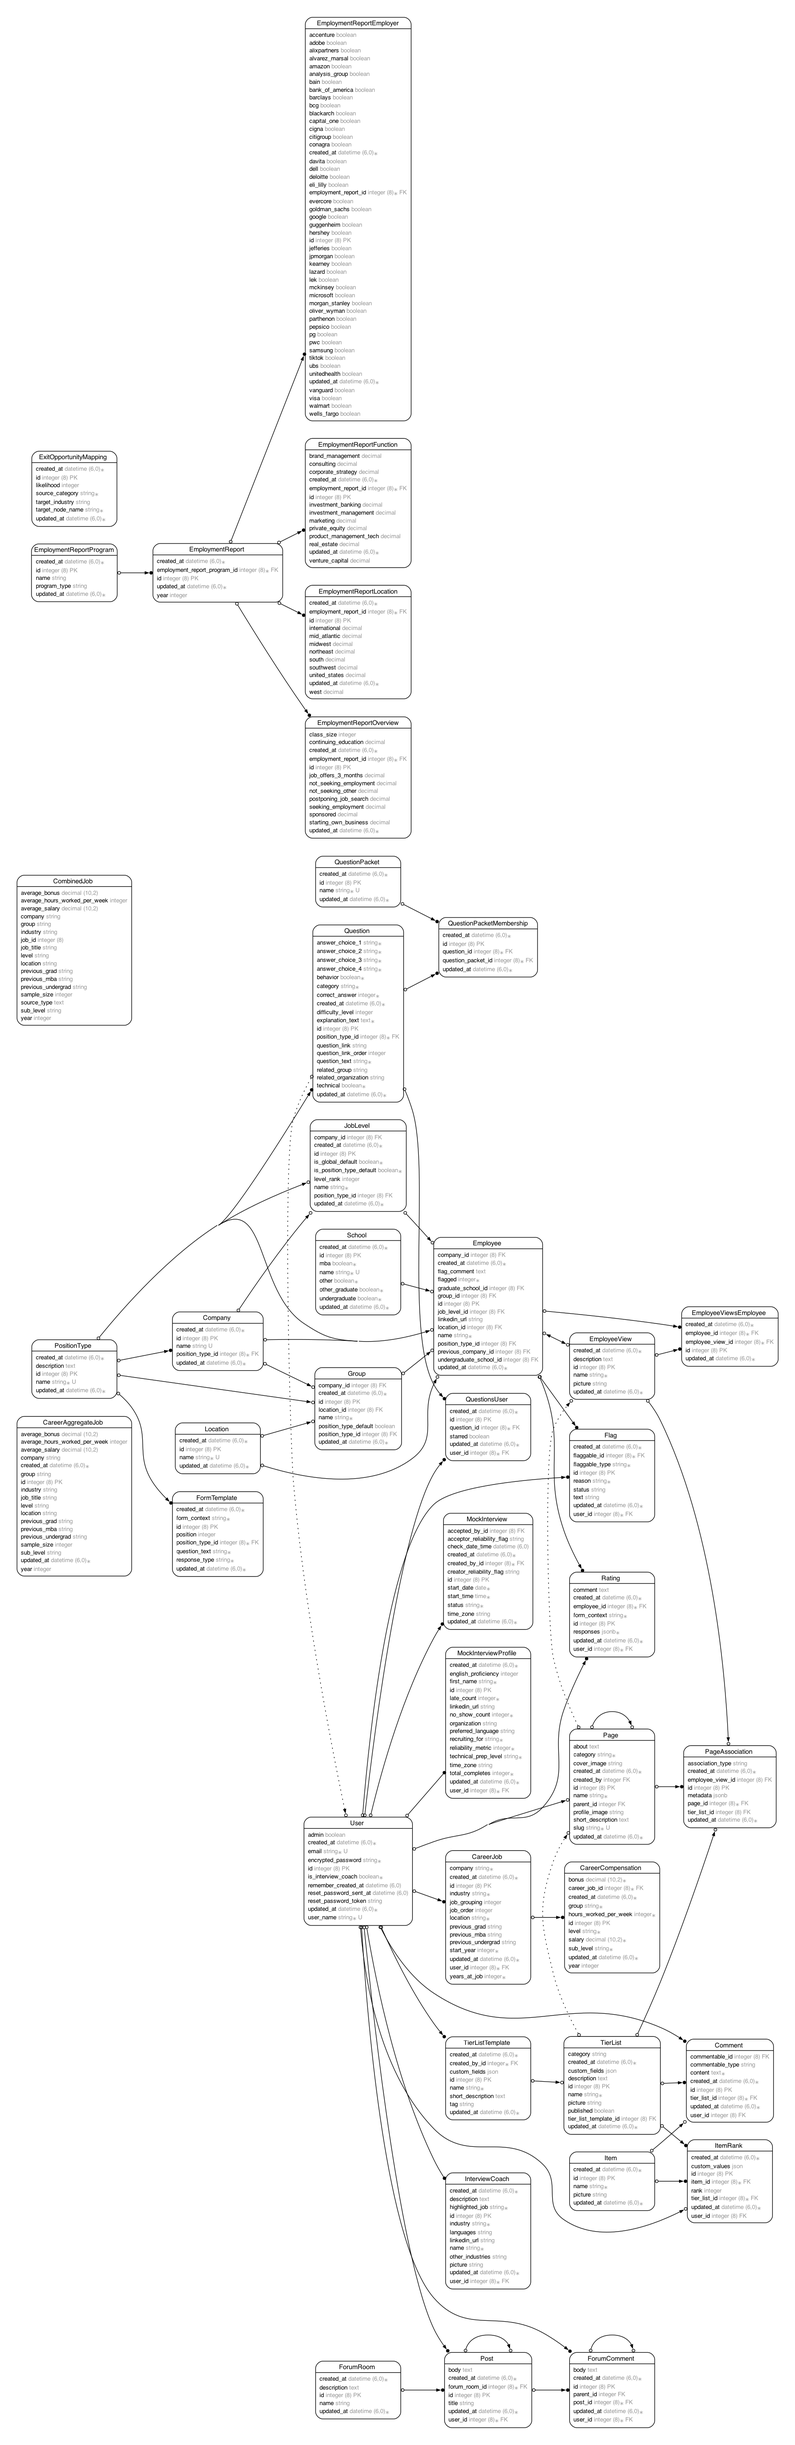
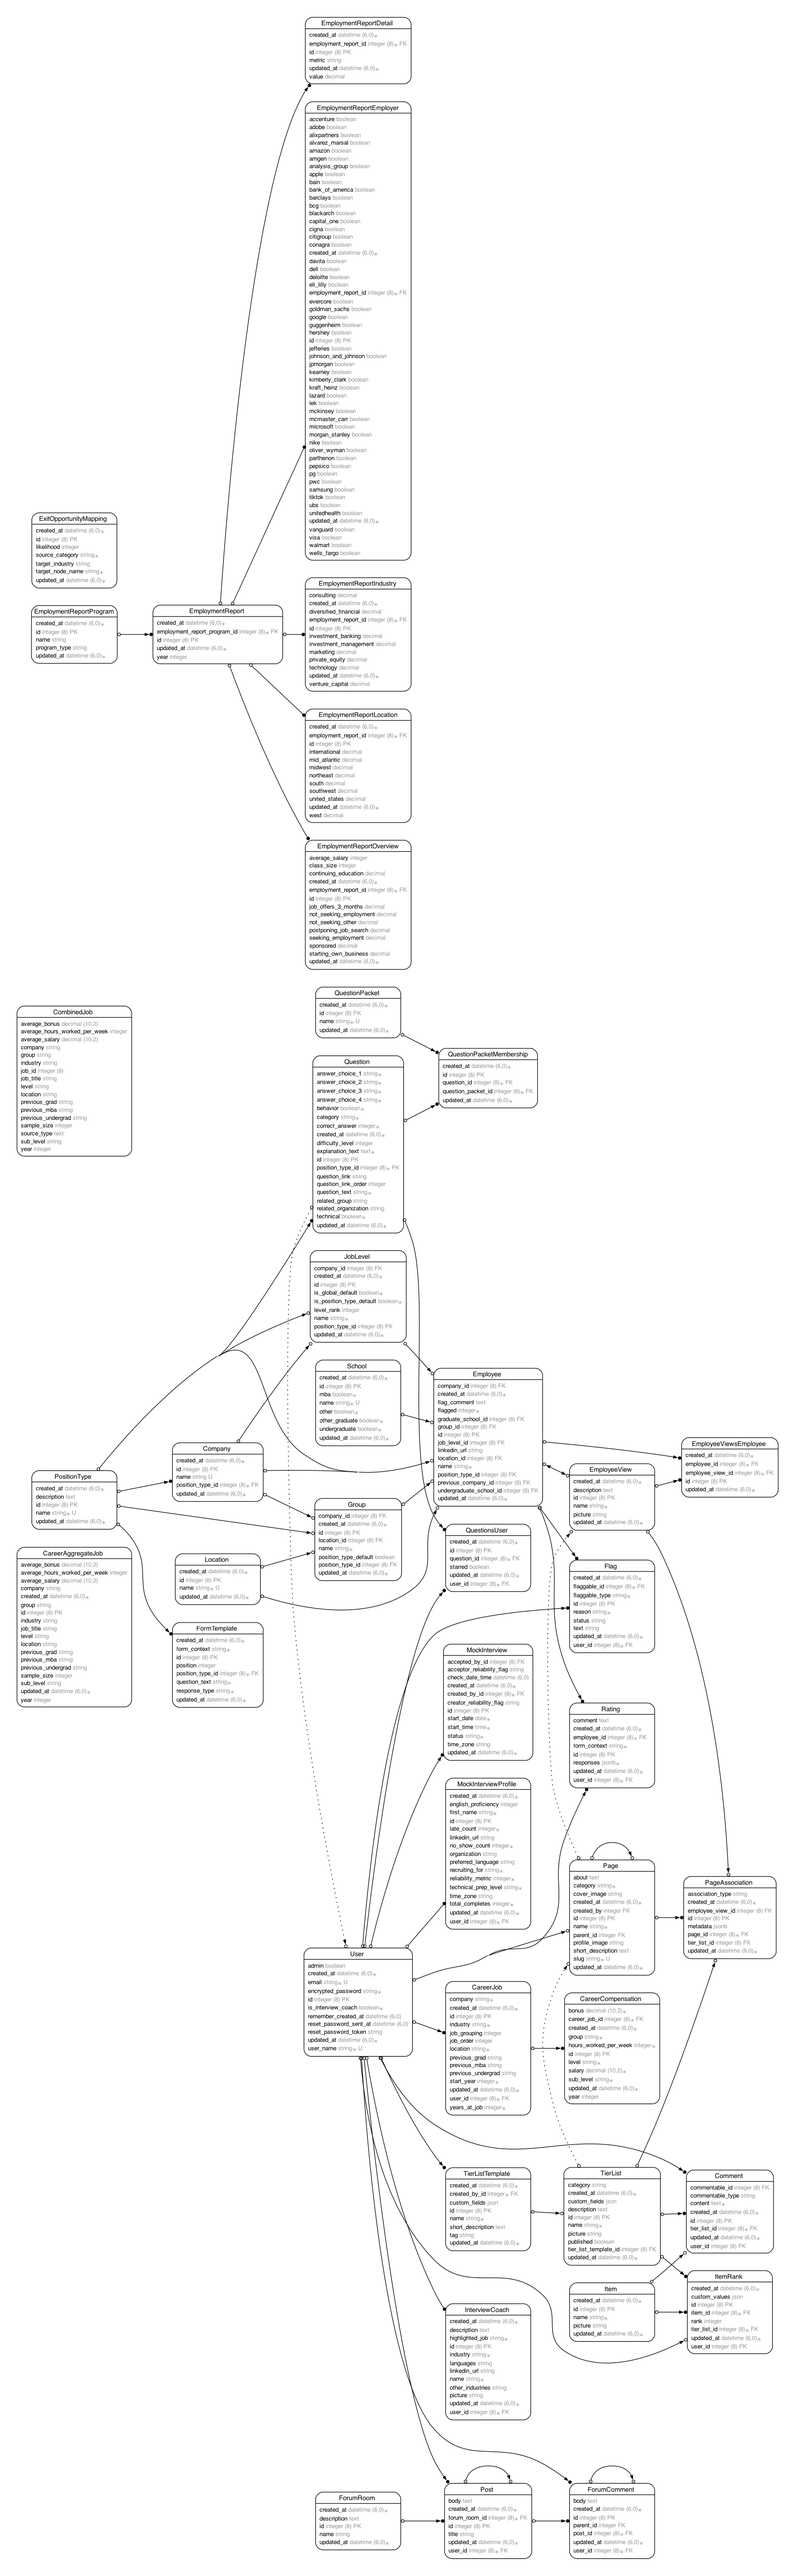
Added migration files

diff --git a/db/schema.rb b/db/schema.rb
@@ -10,7 +10,7 @@
 #
 # It's strongly recommended that you check this file into your version control system.
 
-ActiveRecord::Schema[7.1].define(version: 2025_02_16_023643) do
+ActiveRecord::Schema[7.1].define(version: 2025_02_16_193541) do
   # These are extensions that must be enabled in order to support this database
   enable_extension "plpgsql"
 
@@ -130,6 +130,15 @@ ActiveRecord::Schema[7.1].define(version: 2025_02_16_023643) do
     t.index ["undergraduate_school_id"], name: "index_employees_on_undergraduate_school_id"
   end
 
+  create_table "employment_report_details", force: :cascade do |t|
+    t.bigint "employment_report_id", null: false
+    t.string "metric"
+    t.decimal "value"
+    t.datetime "created_at", null: false
+    t.datetime "updated_at", null: false
+    t.index ["employment_report_id"], name: "index_employment_report_details_on_employment_report_id"
+  end
+
   create_table "employment_report_employers", force: :cascade do |t|
     t.bigint "employment_report_id", null: false
     t.boolean "bcg"
@@ -179,23 +188,28 @@ ActiveRecord::Schema[7.1].define(version: 2025_02_16_023643) do
     t.boolean "hershey"
     t.datetime "created_at", null: false
     t.datetime "updated_at", null: false
+    t.boolean "amgen", default: false
+    t.boolean "apple", default: false
+    t.boolean "johnson_and_johnson", default: false
+    t.boolean "kimberly_clark", default: false
+    t.boolean "kraft_heinz", default: false
+    t.boolean "mcmaster_carr", default: false
+    t.boolean "nike", default: false
     t.index ["employment_report_id"], name: "index_employment_report_employers_on_employment_report_id"
   end
 
-  create_table "employment_report_functions", force: :cascade do |t|
+  create_table "employment_report_industries", id: :bigint, default: -> { "nextval('employment_report_functions_id_seq'::regclass)" }, force: :cascade do |t|
     t.bigint "employment_report_id", null: false
     t.decimal "consulting"
-    t.decimal "corporate_strategy"
     t.decimal "investment_banking"
-    t.decimal "investment_management"
     t.decimal "private_equity"
-    t.decimal "real_estate"
     t.decimal "venture_capital"
     t.decimal "marketing"
-    t.decimal "brand_management"
-    t.decimal "product_management_tech"
     t.datetime "created_at", null: false
     t.datetime "updated_at", null: false
+    t.decimal "diversified_financial"
+    t.decimal "investment_management"
+    t.decimal "technology"
     t.index ["employment_report_id"], name: "index_employment_report_functions_on_employment_report_id"
   end
 
@@ -227,6 +241,7 @@ ActiveRecord::Schema[7.1].define(version: 2025_02_16_023643) do
     t.decimal "job_offers_3_months"
     t.datetime "created_at", null: false
     t.datetime "updated_at", null: false
+    t.integer "average_salary"
     t.index ["employment_report_id"], name: "index_employment_report_overviews_on_employment_report_id"
   end
 
@@ -577,8 +592,9 @@ ActiveRecord::Schema[7.1].define(version: 2025_02_16_023643) do
   add_foreign_key "employees", "locations"
   add_foreign_key "employees", "schools", column: "graduate_school_id"
   add_foreign_key "employees", "schools", column: "undergraduate_school_id"
+  add_foreign_key "employment_report_details", "employment_reports"
   add_foreign_key "employment_report_employers", "employment_reports"
-  add_foreign_key "employment_report_functions", "employment_reports"
+  add_foreign_key "employment_report_industries", "employment_reports"
   add_foreign_key "employment_report_locations", "employment_reports"
   add_foreign_key "employment_report_overviews", "employment_reports"
   add_foreign_key "employment_reports", "employment_report_programs"

diff --git a/app/models/employment_report_industry.rb b/app/models/employment_report_industry.rb
@@ -1,21 +1,19 @@
 # == Schema Information
 #
-# Table name: employment_report_functions
+# Table name: employment_report_industries
 #
-#  id                      :bigint           not null, primary key
-#  brand_management        :decimal(, )
-#  consulting              :decimal(, )
-#  corporate_strategy      :decimal(, )
-#  investment_banking      :decimal(, )
-#  investment_management   :decimal(, )
-#  marketing               :decimal(, )
-#  private_equity          :decimal(, )
-#  product_management_tech :decimal(, )
-#  real_estate             :decimal(, )
-#  venture_capital         :decimal(, )
-#  created_at              :datetime         not null
-#  updated_at              :datetime         not null
-#  employment_report_id    :bigint           not null
+#  id                    :bigint           not null, primary key
+#  consulting            :decimal(, )
+#  diversified_financial :decimal(, )
+#  investment_banking    :decimal(, )
+#  investment_management :decimal(, )
+#  marketing             :decimal(, )
+#  private_equity        :decimal(, )
+#  technology            :decimal(, )
+#  venture_capital       :decimal(, )
+#  created_at            :datetime         not null
+#  updated_at            :datetime         not null
+#  employment_report_id  :bigint           not null
 #
 # Indexes
 #

diff --git a/app/models/employment_report_employer.rb b/app/models/employment_report_employer.rb
@@ -8,7 +8,9 @@
 #  alixpartners         :boolean
 #  alvarez_marsal       :boolean
 #  amazon               :boolean
+#  amgen                :boolean          default(FALSE)
 #  analysis_group       :boolean
+#  apple                :boolean          default(FALSE)
 #  bain                 :boolean
 #  bank_of_america      :boolean
 #  barclays             :boolean
@@ -28,13 +30,18 @@
 #  guggenheim           :boolean
 #  hershey              :boolean
 #  jefferies            :boolean
+#  johnson_and_johnson  :boolean          default(FALSE)
 #  jpmorgan             :boolean
 #  kearney              :boolean
+#  kimberly_clark       :boolean          default(FALSE)
+#  kraft_heinz          :boolean          default(FALSE)
 #  lazard               :boolean
 #  lek                  :boolean
 #  mckinsey             :boolean
+#  mcmaster_carr        :boolean          default(FALSE)
 #  microsoft            :boolean
 #  morgan_stanley       :boolean
+#  nike                 :boolean          default(FALSE)
 #  oliver_wyman         :boolean
 #  parthenon            :boolean
 #  pepsico              :boolean

diff --git a/db/migrate/20250216193411_add_more_employment_report_employer_columns.rb b/db/migrate/20250216193411_add_more_employment_report_employer_columns.rb
@@ -1,0 +1,11 @@
+class AddMoreEmploymentReportEmployerColumns < ActiveRecord::Migration[7.1]
+  def change
+    add_column :employment_report_employers, :amgen, :boolean, if_not_exists: true, default: false
+    add_column :employment_report_employers, :apple, :boolean, if_not_exists: true, default: false
+    add_column :employment_report_employers, :johnson_and_johnson, :boolean, if_not_exists: true, default: false
+    add_column :employment_report_employers, :kimberly_clark, :boolean, if_not_exists: true, default: false
+    add_column :employment_report_employers, :kraft_heinz, :boolean, if_not_exists: true, default: false
+    add_column :employment_report_employers, :mcmaster_carr, :boolean, if_not_exists: true, default: false
+    add_column :employment_report_employers, :nike, :boolean, if_not_exists: true, default: false
+  end
+end

diff --git a/app/models/employment_report_overview.rb b/app/models/employment_report_overview.rb
@@ -3,6 +3,7 @@
 # Table name: employment_report_overviews
 #
 #  id                     :bigint           not null, primary key
+#  average_salary         :integer
 #  class_size             :integer
 #  continuing_education   :decimal(, )
 #  job_offers_3_months    :decimal(, )

diff --git a/db/migrate/20250216193541_add_average_salary_to_employment_report_overviews.rb b/db/migrate/20250216193541_add_average_salary_to_employment_report_overviews.rb
@@ -1,0 +1,5 @@
+class AddAverageSalaryToEmploymentReportOverviews < ActiveRecord::Migration[7.1]
+  def change
+    add_column :employment_report_overviews, :average_salary, :integer, if_not_exists: true, limit: 4
+  end
+end
